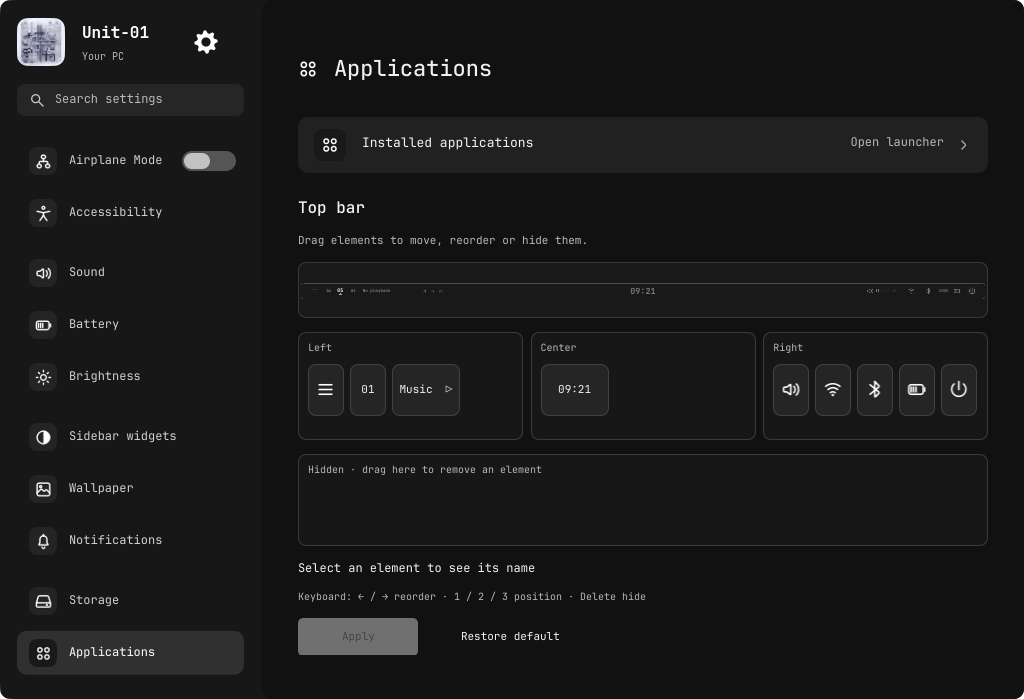
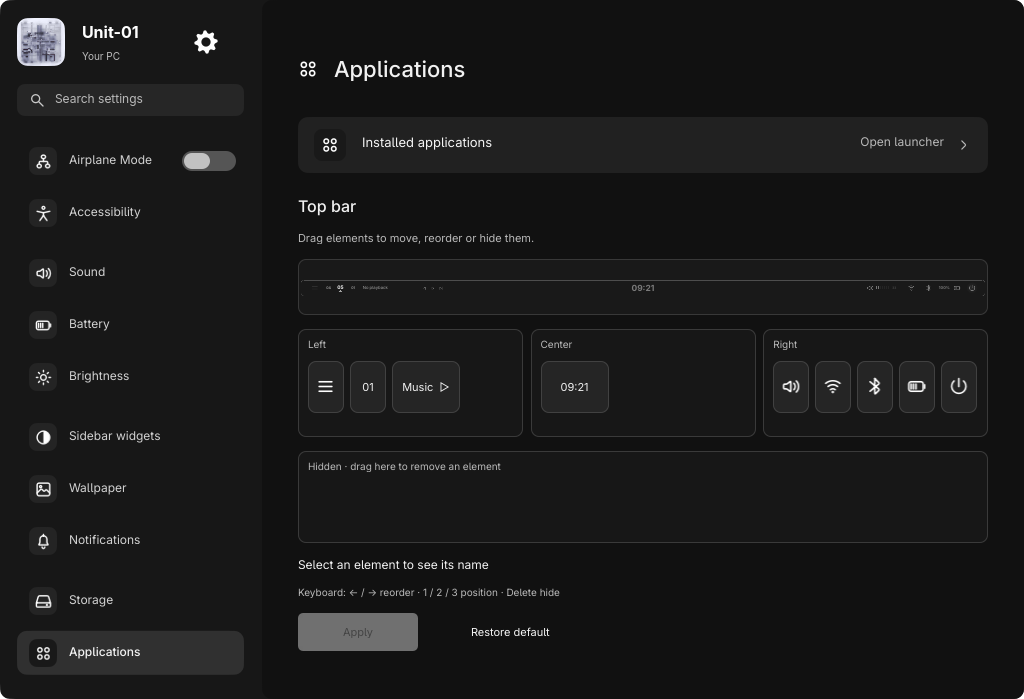
Try reversible sans-serif UI typography with gentler emphasis

diff --git a/config/quickshell/ghost-bar/SettingsPanel.qml b/config/quickshell/ghost-bar/SettingsPanel.qml
@@ -332,7 +332,7 @@ Item {
             text: parent.title
             font.pixelSize: 13
             color: settings.secondaryInk
-            font.weight: Font.Medium
+            font.weight: Theme.mediumWeight
             visible: text !== ""
         }
     }
@@ -387,7 +387,7 @@ Item {
         }
         Label {
             x: 20; y: 52; width: parent.width - 40; height: 36
-            text: parent.value; font.pixelSize: 26; font.weight: Font.Medium
+            text: parent.value; font.pixelSize: 26; font.weight: Theme.mediumWeight
             color: settings.primaryInk
         }
         Label {
@@ -763,7 +763,7 @@ Item {
                 text: settings.displayHost
                 font.family: Theme.textFont
                 font.pixelSize: 16
-                font.weight: Font.Bold
+                font.weight: Theme.boldWeight
                 color: "#ffffff"
             }
             Label {
@@ -866,7 +866,7 @@ Item {
                             height: 18
                             text: modelData.name
                             font.pixelSize: 12
-                            font.weight: modelData.id === settings.page ? Font.Medium : Font.Normal
+                            font.weight: modelData.id === settings.page ? Theme.mediumWeight : Font.Normal
                             color: modelData.id === settings.page ? settings.primaryInk : "#d1d1d1"
                         }
                         SettingsToggle {
@@ -926,7 +926,7 @@ Item {
                         verticalAlignment: Text.AlignVCenter
                         text: settings.categories.find(c => c.id === settings.page)?.name || ""
                         font.pixelSize: 22
-                        font.weight: Font.Medium
+                        font.weight: Theme.mediumWeight
                         color: settings.primaryInk
                     }
                 }
@@ -996,7 +996,7 @@ Item {
                     text: settings.displayHost
                     font.family: Theme.textFont
                     font.pixelSize: 20
-                    font.weight: Font.Bold
+                    font.weight: Theme.boldWeight
                     color: "#ffffff"
                 }
                 Key {
@@ -1440,7 +1440,7 @@ Item {
             Label {
                 text: "PC name"
                 font.pixelSize: 16
-                font.weight: Font.Bold
+                font.weight: Theme.boldWeight
             }
             Controls.TextField {
                 id: nameInput

diff --git a/config/quickshell/ghost-bar/LiquidMeter.qml b/config/quickshell/ghost-bar/LiquidMeter.qml
@@ -49,18 +49,6 @@ Item {
     onAvailableChanged: if (!useGpu) liquid.requestPaint()
     onUseGpuChanged: liquid.requestPaint()
 
-    FontLoader {
-        id: instrumentFace
-
-        source: "fonts/TurretRoad-Bold.ttf"
-    }
-
-    FontLoader {
-        id: valueFace
-
-        source: "fonts/TurretRoad-Medium.ttf"
-    }
-
     HoverHandler {
         id: hover
 
@@ -158,8 +146,8 @@ Item {
         anchors.horizontalCenter: parent.horizontalCenter
         y: meter.titleY
         text: meter.title
-        font.family: instrumentFace.name
-        font.weight: Font.Bold
+        font.family: Theme.font
+        font.weight: Theme.boldWeight
         font.pixelSize: 15
         color: meter.available && meter.titleY + 8 > meter.waterLine ? "#181818" : "#ffffff"
         // Only while a real wave crosses the glyphs: keep the reading legible.
@@ -171,8 +159,8 @@ Item {
         anchors.horizontalCenter: parent.horizontalCenter
         y: meter.valueY
         text: meter.available ? Math.round(meter.value).toString().padStart(2, "0") + meter.unit : "—"
-        font.family: valueFace.name
-        font.weight: Font.Medium
+        font.family: Theme.font
+        font.weight: Theme.mediumWeight
         font.pixelSize: meter.unit === "MHz" ? 12 : 15
         color: meter.available && meter.valueY + 8 > meter.waterLine ? "#181818" : "#ffffff"
         style: meter.available && meter.waterLine > y - 6 && meter.waterLine < y + height + 6 ? Text.Outline : Text.Normal

diff --git a/config/quickshell/ghost-bar/Theme.qml b/config/quickshell/ghost-bar/Theme.qml
@@ -10,7 +10,12 @@ QtObject {
     readonly property real railHeight: (46 + 18 * railOuterGapScale) * railVerticalScale
     // Reference coordinates stay fixed; the complete calendar scales together.
     readonly property real calendarScale: 1.12
-    readonly property string font: "JetBrainsMono Nerd Font Mono"
+    // Reversible sans-serif trial. Original bundled faces remain available.
+    readonly property string font: "Adwaita Sans"
+    // Keep emphasis, with a modest 50-point reduction for the sans-serif trial.
+    readonly property int mediumWeight: 450
+    readonly property int demiWeight: 550
+    readonly property int boldWeight: 650
     readonly property FontLoader jetRegular: FontLoader {
         source: "fonts/JetBrainsMono-Regular.ttf"
     }
@@ -27,7 +32,7 @@ QtObject {
         source: "fonts/JetBrainsMono-Bold.ttf"
     }
 
-    readonly property string textFont: jetRegular.name
+    readonly property string textFont: font
     readonly property color base: "#080808"
     readonly property color surface: "#101010"
     readonly property color raised: "#181818"

diff --git a/config/quickshell/ghost-bar/SidebarFigmaBody.qml b/config/quickshell/ghost-bar/SidebarFigmaBody.qml
@@ -218,7 +218,7 @@ Item {
                 anchors.verticalCenter: parent.verticalCenter
                 text: sidebar.previewMode ? "100%" : Desk.hasBattery ? Desk.charge + "%" : "AC"
                 font.pixelSize: 14
-                font.weight: Font.Bold
+                font.weight: Theme.boldWeight
                 width: 34
                 height: 22
                 verticalAlignment: Text.AlignVCenter
@@ -361,7 +361,7 @@ Item {
                     text: "Wlan"
                     color: "#000000"
                     font.pixelSize: 14
-                    font.weight: Font.Bold
+                    font.weight: Theme.boldWeight
                 }
             }
             Flickable {
@@ -485,7 +485,7 @@ Item {
                         text: "Bluetooth"
                         color: "#111111"
                         font.pixelSize: 14
-                        font.weight: Font.Bold
+                        font.weight: Theme.boldWeight
                         anchors.verticalCenter: parent.verticalCenter
                     }
                 }

diff --git a/config/quickshell/ghost-bar/Rail.qml b/config/quickshell/ghost-bar/Rail.qml
@@ -140,7 +140,7 @@ Item {
                         text: Qt.formatDateTime(bar.displayTime, "HH:mm")
                         font.family: Theme.font
                         font.pixelSize: 26
-                        font.weight: Font.Bold
+                        font.weight: Theme.boldWeight
                         color: "#ffffff"
                     }
                 }
@@ -236,7 +236,7 @@ Item {
                         height: 32
                         text: bar.fixtureMode ? "100%" : Desk.hasBattery ? Desk.charge + "%" : "AC"
                         font.pixelSize: 12
-                        font.weight: Font.Bold
+                        font.weight: Theme.boldWeight
                         color: "#ffffff"
                     }
                     SvgIcon {

diff --git a/config/quickshell/ghost-bar/Workspaces.qml b/config/quickshell/ghost-bar/Workspaces.qml
@@ -132,7 +132,7 @@ Item {
                 text: String(parent.workspace).padStart(2, "0")
                 font.family: Theme.font
                 font.pixelSize: 15
-                font.weight: Math.abs(parent.offset) < .5 ? Font.Bold : Font.Medium
+                font.weight: Math.abs(parent.offset) < .5 ? Theme.boldWeight : Theme.mediumWeight
                 color: Qt.rgba(parent.projection.ink / 255, parent.projection.ink / 255, parent.projection.ink / 255, 1)
             }
         }

diff --git a/config/quickshell/ghost-bar/NotificationList.qml b/config/quickshell/ghost-bar/NotificationList.qml
@@ -53,7 +53,7 @@ Flickable {
                         width: parent.width
                         text: modelData.summary
                         font.pixelSize: 11
-                        font.weight: Font.Bold
+                        font.weight: Theme.boldWeight
                         wrapMode: Text.Wrap
                         textFormat: Text.PlainText
                         elide: Text.ElideNone

diff --git a/config/quickshell/ghost-bar/lock/LockScene.qml b/config/quickshell/ghost-bar/lock/LockScene.qml
@@ -15,7 +15,7 @@ FocusScope {
     property real reveal: credentialsVisible ? 1 : 0
     property real pointerTilt: 0
     readonly property real cursorTilt: reducedMotion ? 0 : pointerTilt * (1 - reveal)
-    readonly property string fontFamily: "JetBrainsMono Nerd Font Mono"
+    readonly property string fontFamily: Theme.font
     signal wakeRequested
     signal sleepRequested
     signal activity

diff --git a/config/quickshell/ghost-bar/PerformanceGauge.qml b/config/quickshell/ghost-bar/PerformanceGauge.qml
@@ -139,7 +139,7 @@ Item {
                 anchors.horizontalCenter: parent.horizontalCenter
                 text: gauge.available ? Math.round(gauge.reading) + (gauge.metric === "processor" ? "" : "%") : "—"
                 font.pixelSize: 32
-                font.weight: Font.Medium
+                font.weight: Theme.mediumWeight
             }
 
             Label {

diff --git a/config/quickshell/ghost-bar/NotificationBanner.qml b/config/quickshell/ghost-bar/NotificationBanner.qml
@@ -30,7 +30,7 @@ G2Surface {
             width: parent.width
             text: banner.notification?.summary || ""
             font.pixelSize: 12
-            font.weight: Font.Bold
+            font.weight: Theme.boldWeight
             textFormat: Text.PlainText
             wrapMode: Text.Wrap
             maximumLineCount: 2

diff --git a/config/quickshell/ghost-bar/WallpaperPicker.qml b/config/quickshell/ghost-bar/WallpaperPicker.qml
@@ -103,7 +103,7 @@ Controls.Popup {
             text: "Choose wallpaper"
             color: "#f2f2f2"
             font.pixelSize: 18
-            font.weight: Font.DemiBold
+            font.weight: Theme.demiWeight
         }
         Key {
             x: parent.width - 80

diff --git a/config/quickshell/ghost-bar/TopBarEditor.qml b/config/quickshell/ghost-bar/TopBarEditor.qml
@@ -42,7 +42,7 @@ Column {
     Label {
         text: "Top bar"
         font.pixelSize: 16
-        font.weight: Font.DemiBold
+        font.weight: Theme.demiWeight
         color: "#f1f1f1"
     }
     Label {
